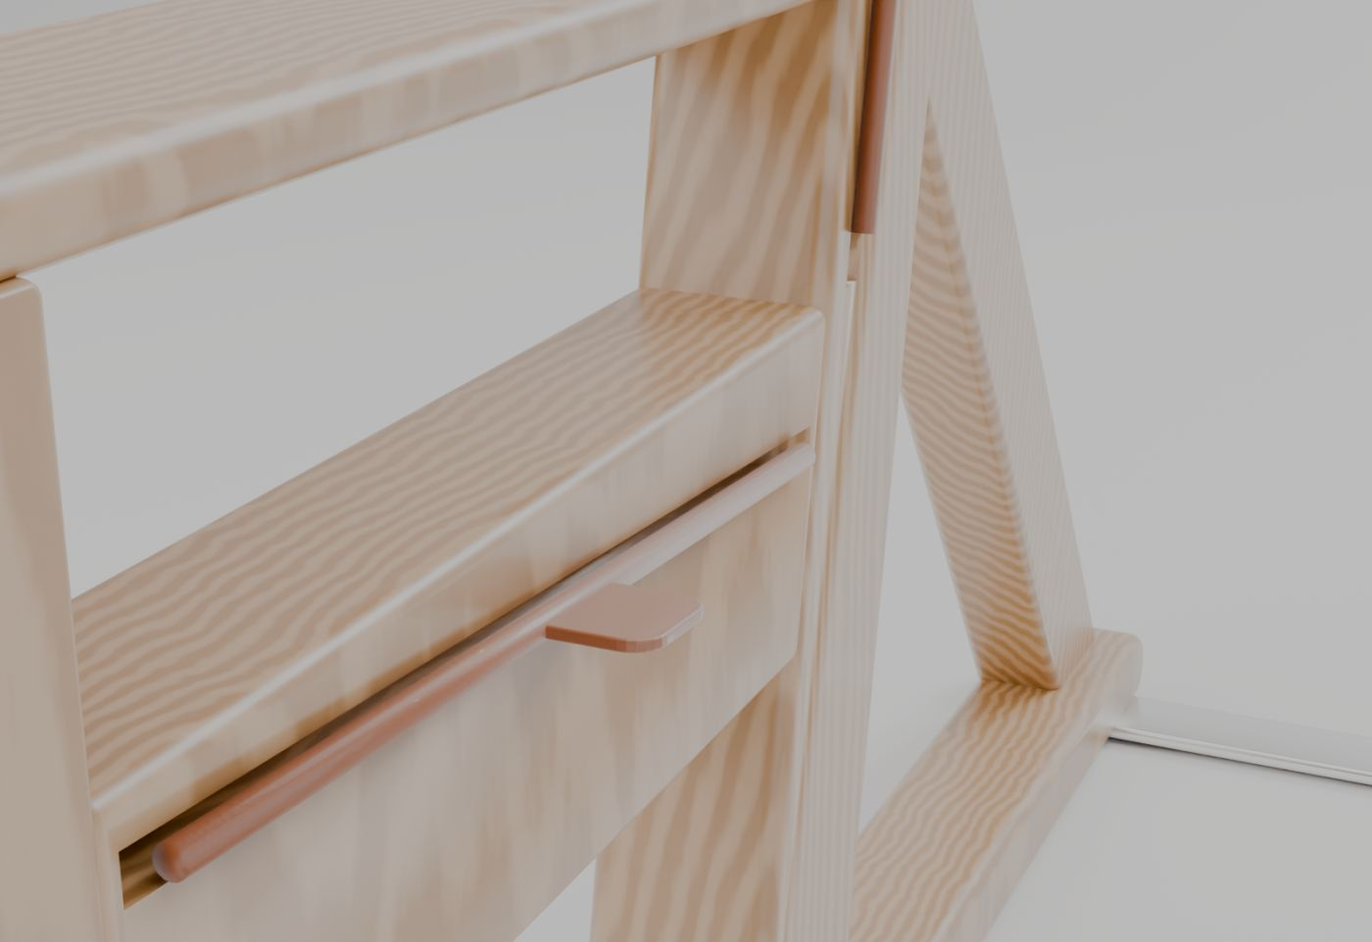
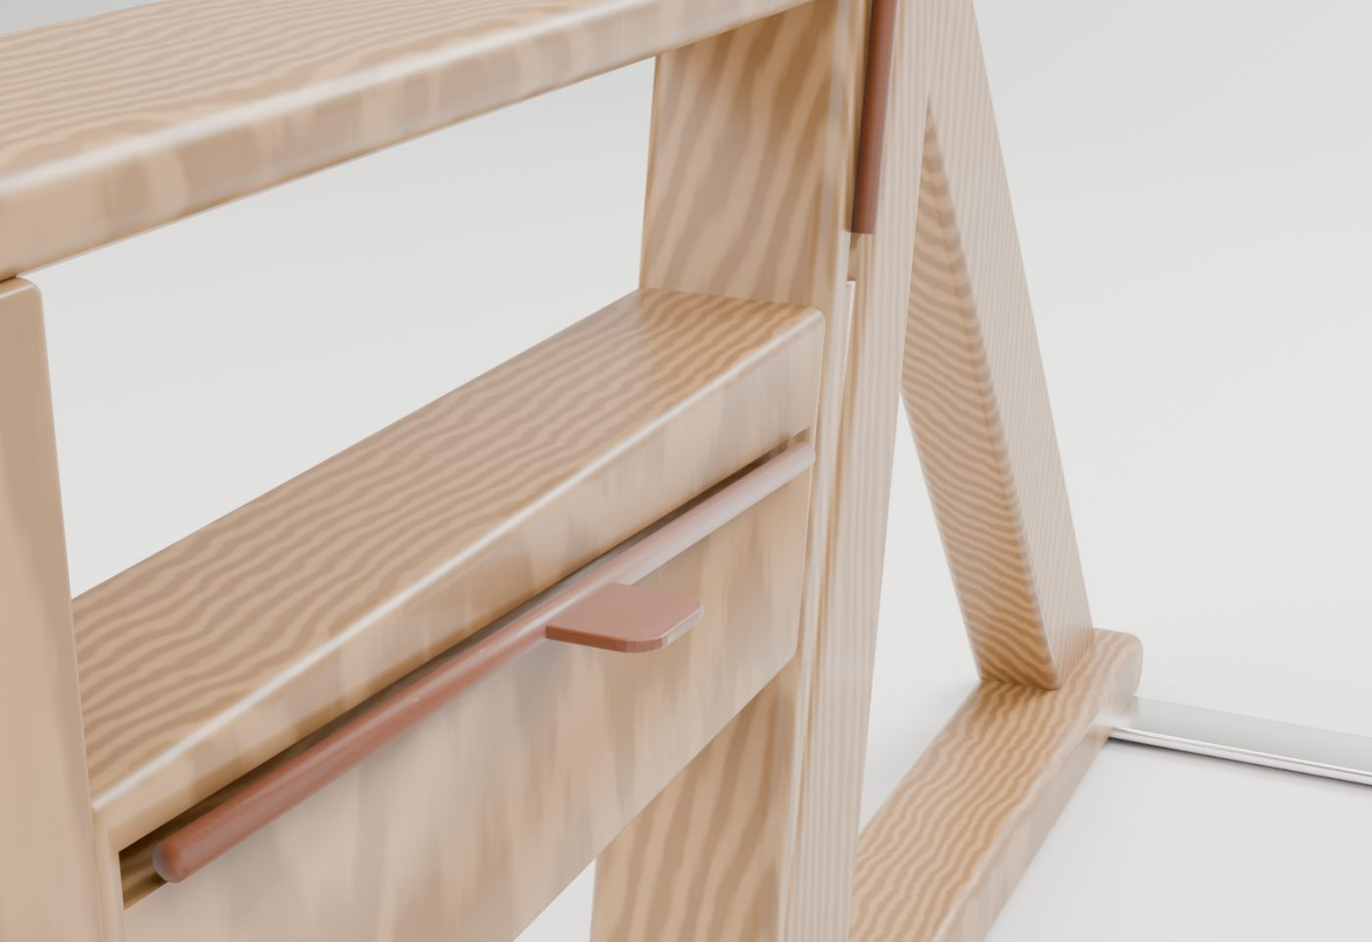
Fix washed-out web images (no second tone-mapping) and duplicated footer

diff --git a/index.html b/index.html
@@ -92,23 +92,15 @@ footer{padding-block:28px;border-top:1px solid var(--rule);color:var(--muted);fo
   <div class="duo">
     <figure><span class="tag seat">מצב ישיבה</span><img src="img/hero_seat.jpg" alt="ROWEN במצב ישיבה: מסגרת אלון, מושב וגב מעור קוניאק, מוט נירוסטה כמשענת עליונה"></figure>
     <figure><span class="tag row">מצב מתח</span><img src="img/hero_row.jpg" alt="ROWEN פתוח: מסגרת פתוחה, מוט בגובה 950 מ&quot;מ ולוח עקבים שנשלף קדימה"></figure>
-  <footer>ROWEN · עיצוב, הנדסה ורינדור: מודל פרמטרי בבלנדר 5.1. דגם ההדפסה בקנה מידה 1:5 מיועד לתצוגה בלבד.</footer>
-</div>
+  </div>
   <div class="specs">
-    <div><b>950</b><span>גובה המוט, מ"מ</span><footer>ROWEN · עיצוב, הנדסה ורינדור: מודל פרמטרי בבלנדר 5.1. דגם ההדפסה בקנה מידה 1:5 מיועד לתצוגה בלבד.</footer>
-</div>
-    <div><b>740</b><span>מעבר חופשי בין הדפנות</span><footer>ROWEN · עיצוב, הנדסה ורינדור: מודל פרמטרי בבלנדר 5.1. דגם ההדפסה בקנה מידה 1:5 מיועד לתצוגה בלבד.</footer>
-</div>
-    <div><b>446</b><span>גובה מושב (קצה)</span><footer>ROWEN · עיצוב, הנדסה ורינדור: מודל פרמטרי בבלנדר 5.1. דגם ההדפסה בקנה מידה 1:5 מיועד לתצוגה בלבד.</footer>
-</div>
-    <div><b>1000×1285</b><span>רוחב × עומק</span><footer>ROWEN · עיצוב, הנדסה ורינדור: מודל פרמטרי בבלנדר 5.1. דגם ההדפסה בקנה מידה 1:5 מיועד לתצוגה בלבד.</footer>
-</div>
-    <div><b>≈60</b><span>משקל, ק"ג (אלון מלא)</span><footer>ROWEN · עיצוב, הנדסה ורינדור: מודל פרמטרי בבלנדר 5.1. דגם ההדפסה בקנה מידה 1:5 מיועד לתצוגה בלבד.</footer>
-</div>
-    <div><b>≥4.5</b><span>מקדם ביטחון להתהפכות</span><footer>ROWEN · עיצוב, הנדסה ורינדור: מודל פרמטרי בבלנדר 5.1. דגם ההדפסה בקנה מידה 1:5 מיועד לתצוגה בלבד.</footer>
-</div>
-  <footer>ROWEN · עיצוב, הנדסה ורינדור: מודל פרמטרי בבלנדר 5.1. דגם ההדפסה בקנה מידה 1:5 מיועד לתצוגה בלבד.</footer>
-</div>
+    <div><b>950</b><span>גובה המוט, מ"מ</span></div>
+    <div><b>740</b><span>מעבר חופשי בין הדפנות</span></div>
+    <div><b>446</b><span>גובה מושב (קצה)</span></div>
+    <div><b>1000×1285</b><span>רוחב × עומק</span></div>
+    <div><b>≈60</b><span>משקל, ק"ג (אלון מלא)</span></div>
+    <div><b>≥4.5</b><span>מקדם ביטחון להתהפכות</span></div>
+  </div>
 </header>
 
 <section>
@@ -117,14 +109,10 @@ footer{padding-block:28px;border-top:1px solid var(--rule);color:var(--muted);fo
   <figure><video src="media/ROWEN_transform.mp4" controls muted loop playsinline preload="metadata" poster="img/hero_seat.jpg"></video>
     <figcaption>הגב נגלל לעמוד השמאלי, אחריו המושב למסילה, לוח העקבים נשלף קדימה, ובסוף שתי חזרות.</figcaption></figure>
   <div class="steps">
-    <div class="step"><h3>משחררים את הגב</h3><p>לוחצים על ידית הרצ'ט בעמוד השמאלי ומחליקים את מוט ה-keder החוצה מהערוץ הימני. הגליל אוסף את העור פנימה, כמו כיסוי תא מטען.</p><footer>ROWEN · עיצוב, הנדסה ורינדור: מודל פרמטרי בבלנדר 5.1. דגם ההדפסה בקנה מידה 1:5 מיועד לתצוגה בלבד.</footer>
-</div>
-    <div class="step"><h3>משחררים את המושב</h3><p>אותה פעולה במסילה השמאלית. בשני המקרים נשארת בחוץ רק לשונית עור קטנה, שבעזרתה מושכים את העור חזרה.</p><footer>ROWEN · עיצוב, הנדסה ורינדור: מודל פרמטרי בבלנדר 5.1. דגם ההדפסה בקנה מידה 1:5 מיועד לתצוגה בלבד.</footer>
-</div>
-    <div class="step"><h3>שולפים את לוח העקבים</h3><p>מושכים את לולאת העור קדימה עד העצירה. הלוח עובר מתחת לקורה הקדמית. סגירה בסדר הפוך: מותחים את העור, משחילים לערוץ ונועלים ברצ'ט.</p><footer>ROWEN · עיצוב, הנדסה ורינדור: מודל פרמטרי בבלנדר 5.1. דגם ההדפסה בקנה מידה 1:5 מיועד לתצוגה בלבד.</footer>
-</div>
-  <footer>ROWEN · עיצוב, הנדסה ורינדור: מודל פרמטרי בבלנדר 5.1. דגם ההדפסה בקנה מידה 1:5 מיועד לתצוגה בלבד.</footer>
-</div>
+    <div class="step"><h3>משחררים את הגב</h3><p>לוחצים על ידית הרצ'ט בעמוד השמאלי ומחליקים את מוט ה-keder החוצה מהערוץ הימני. הגליל אוסף את העור פנימה, כמו כיסוי תא מטען.</p></div>
+    <div class="step"><h3>משחררים את המושב</h3><p>אותה פעולה במסילה השמאלית. בשני המקרים נשארת בחוץ רק לשונית עור קטנה, שבעזרתה מושכים את העור חזרה.</p></div>
+    <div class="step"><h3>שולפים את לוח העקבים</h3><p>מושכים את לולאת העור קדימה עד העצירה. הלוח עובר מתחת לקורה הקדמית. סגירה בסדר הפוך: מותחים את העור, משחילים לערוץ ונועלים ברצ'ט.</p></div>
+  </div>
 </section>
 
 <section>
@@ -141,15 +129,12 @@ footer{padding-block:28px;border-top:1px solid var(--rule);color:var(--muted);fo
         <li><b>קל יותר:</b> לכופף ברכיים ולקרב את הרגליים. <b>קשה יותר:</b> רגליים ישרות ורחוקות, ירידה איטית בשלוש שניות.</li>
       </ul>
       <p class="note">לא מושכים במוט קדימה כדי לקום מהרצפה. משיכה אופקית של כ-<span class="num">320 N</span> מהפכת את הכיסא קדימה כשאין אף אחד על לוח העקבים. לא מתאמנים כשהלוח מקופל ועל רצפה מבריקה או על שטיח רך.</p>
-    <footer>ROWEN · עיצוב, הנדסה ורינדור: מודל פרמטרי בבלנדר 5.1. דגם ההדפסה בקנה מידה 1:5 מיועד לתצוגה בלבד.</footer>
-</div>
-  <footer>ROWEN · עיצוב, הנדסה ורינדור: מודל פרמטרי בבלנדר 5.1. דגם ההדפסה בקנה מידה 1:5 מיועד לתצוגה בלבד.</footer>
-</div>
+    </div>
+  </div>
   <div class="duo">
     <figure><img src="img/seat_user.jpg" alt="משתמש יושב בכורסה"><figcaption>ישיבה: המושב נוטה 30 מ"מ לאחור והגב 11°. המוט עטוף בעור לכל אורכו.</figcaption></figure>
     <figure><img src="img/persp_row_user.jpg" alt="משתמש בראש התנועה, מבט פרספקטיבה"><figcaption>מעבר של 740 מ"מ: גם במרפקים פתוחים לצדדים יש מרווח של כ-32 מ"מ מהעמודים.</figcaption></figure>
-  <footer>ROWEN · עיצוב, הנדסה ורינדור: מודל פרמטרי בבלנדר 5.1. דגם ההדפסה בקנה מידה 1:5 מיועד לתצוגה בלבד.</footer>
-</div>
+  </div>
 </section>
 
 <section>
@@ -162,8 +147,7 @@ footer{padding-block:28px;border-top:1px solid var(--rule);color:var(--muted);fo
       <p>בגרסה הראשונה הבדיקה מצאה שהאמות פוגעות בפינה האחורית-עליונה של העמודים. התיקון: המוט עבר ל"מפרק" מעוגל בחלק האחורי של ראש העמוד.</p>
       <h3>מוט</h3>
       <p>צינור נירוסטה 304 בקוטר <span class="num">32×3</span> על מפתח <span class="num">810</span>. בעומס של 120 ק"ג ×1.5: <span class="num">61 MPa</span> (מקדם ביטחון 3.4 לכניעה), ושקיעה של <span class="num">1.6 מ"מ</span>.</p>
-    <footer>ROWEN · עיצוב, הנדסה ורינדור: מודל פרמטרי בבלנדר 5.1. דגם ההדפסה בקנה מידה 1:5 מיועד לתצוגה בלבד.</footer>
-</div>
+    </div>
     <div style="display:grid;gap:10px;min-width:0">
       <h3>יציבות במצב מתח: המקרה הגרוע</h3>
       <p style="font-size:14px;color:var(--muted)">כוח ניצב לגו, מקדם דינמי ×1.5. מסה ומרכז כובד חושבו מהרשתות: <span class="num">59.2 ק"ג</span>.</p>
@@ -174,33 +158,23 @@ footer{padding-block:28px;border-top:1px solid var(--rule);color:var(--muted);fo
           <tr><td class="n">90 ק"ג</td><td class="n">37°</td><td class="n">675 N</td><td class="n good">4.80</td><td class="n">1.78</td><td class="n">0.36</td></tr>
           <tr><td class="n">120 ק"ג</td><td class="n">28°</td><td class="n">995 N</td><td class="n good">4.89</td><td class="n">1.92</td><td class="n">0.32</td></tr>
           <tr><td class="n">120 ק"ג</td><td class="n">37°</td><td class="n">900 N</td><td class="n good">4.52</td><td class="n mid">1.51</td><td class="n mid">0.42</td></tr>
-        </tbody></table><footer>ROWEN · עיצוב, הנדסה ורינדור: מודל פרמטרי בבלנדר 5.1. דגם ההדפסה בקנה מידה 1:5 מיועד לתצוגה בלבד.</footer>
-</div>
+        </tbody></table></div>
       <p style="font-size:14px;color:var(--muted)">עם לוח העקבים, הכוח האופקי בין העקב למוט נסגר בתוך הכיסא, ולכן לא נדרש חיכוך עם הרצפה כלל.</p>
-    <footer>ROWEN · עיצוב, הנדסה ורינדור: מודל פרמטרי בבלנדר 5.1. דגם ההדפסה בקנה מידה 1:5 מיועד לתצוגה בלבד.</footer>
-</div>
-  <footer>ROWEN · עיצוב, הנדסה ורינדור: מודל פרמטרי בבלנדר 5.1. דגם ההדפסה בקנה מידה 1:5 מיועד לתצוגה בלבד.</footer>
-</div>
+    </div>
+  </div>
 </section>
 
 <section>
   <span class="eyebrow">סקירה עצמאית · סוכן הנדסי נפרד</span>
   <h2>מה הסוקר מצא ומה שונה</h2>
   <div class="fix">
-    <div>משיכה קדימה של כ-306 N, או שימוש הפוך, מהפכת את הכיסא. בלי הלוח נדרש חיכוך של 0.45.</div><div><b>לוח עקבים נשלף.</b> כוחות העקב והמוט נסגרים בתוך המסגרת, ומקדם הביטחון עולה מ-1.38 ל-4.5.<footer>ROWEN · עיצוב, הנדסה ורינדור: מודל פרמטרי בבלנדר 5.1. דגם ההדפסה בקנה מידה 1:5 מיועד לתצוגה בלבד.</footer>
-</div>
-    <div>המוט יושב בחורים פשוטים: לא עובד בלחיצה, והקורה הקדמית 60×10 מגיעה לכניעה.</div><div>צווארונים על המוט, פקקים מוברגים, וקורה קדמית RHS 50×25×3 על הצד.<footer>ROWEN · עיצוב, הנדסה ורינדור: מודל פרמטרי בבלנדר 5.1. דגם ההדפסה בקנה מידה 1:5 מיועד לתצוגה בלבד.</footer>
-</div>
-    <div>אין מקום לשגמים במסילה השמאלית בגלל חלל הגליל.</div><div>המסילה הוגבהה ל-150 מ"מ. השגמים בחלק התחתון, והגליל בחלק העליון.<footer>ROWEN · עיצוב, הנדסה ורינדור: מודל פרמטרי בבלנדר 5.1. דגם ההדפסה בקנה מידה 1:5 מיועד לתצוגה בלבד.</footer>
-</div>
-    <div>מרווח מרפק של 16 מ"מ בלבד.</div><div>המעבר הורחב ל-740 מ"מ, ועכשיו המרווח כ-32 מ"מ.<footer>ROWEN · עיצוב, הנדסה ורינדור: מודל פרמטרי בבלנדר 5.1. דגם ההדפסה בקנה מידה 1:5 מיועד לתצוגה בלבד.</footer>
-</div>
-    <div>קורת עץ אחורית מתחת לצוואר, במקרה של נפילה.</div><div>במקומה פס נירוסטה שטוח בגובה הרצפה.<footer>ROWEN · עיצוב, הנדסה ורינדור: מודל פרמטרי בבלנדר 5.1. דגם ההדפסה בקנה מידה 1:5 מיועד לתצוגה בלבד.</footer>
-</div>
-    <div>ישיבה זקופה מדי (98°), מושב רדוד, ומוט קשיח מאחורי השכמות.</div><div>גב מוטה 11°, מושב מוטה 30 מ"מ לאחור, משענות יד נמוכות ב-25 מ"מ, ושרוול עור לכל אורך המוט.<footer>ROWEN · עיצוב, הנדסה ורינדור: מודל פרמטרי בבלנדר 5.1. דגם ההדפסה בקנה מידה 1:5 מיועד לתצוגה בלבד.</footer>
-</div>
-  <footer>ROWEN · עיצוב, הנדסה ורינדור: מודל פרמטרי בבלנדר 5.1. דגם ההדפסה בקנה מידה 1:5 מיועד לתצוגה בלבד.</footer>
-</div>
+    <div>משיכה קדימה של כ-306 N, או שימוש הפוך, מהפכת את הכיסא. בלי הלוח נדרש חיכוך של 0.45.</div><div><b>לוח עקבים נשלף.</b> כוחות העקב והמוט נסגרים בתוך המסגרת, ומקדם הביטחון עולה מ-1.38 ל-4.5.</div>
+    <div>המוט יושב בחורים פשוטים: לא עובד בלחיצה, והקורה הקדמית 60×10 מגיעה לכניעה.</div><div>צווארונים על המוט, פקקים מוברגים, וקורה קדמית RHS 50×25×3 על הצד.</div>
+    <div>אין מקום לשגמים במסילה השמאלית בגלל חלל הגליל.</div><div>המסילה הוגבהה ל-150 מ"מ. השגמים בחלק התחתון, והגליל בחלק העליון.</div>
+    <div>מרווח מרפק של 16 מ"מ בלבד.</div><div>המעבר הורחב ל-740 מ"מ, ועכשיו המרווח כ-32 מ"מ.</div>
+    <div>קורת עץ אחורית מתחת לצוואר, במקרה של נפילה.</div><div>במקומה פס נירוסטה שטוח בגובה הרצפה.</div>
+    <div>ישיבה זקופה מדי (98°), מושב רדוד, ומוט קשיח מאחורי השכמות.</div><div>גב מוטה 11°, מושב מוטה 30 מ"מ לאחור, משענות יד נמוכות ב-25 מ"מ, ושרוול עור לכל אורך המוט.</div>
+  </div>
 </section>
 
 <section>
@@ -211,8 +185,7 @@ footer{padding-block:28px;border-top:1px solid var(--rule);color:var(--muted);fo
     <figure><img src="img/drawing_row_side.jpg" alt="שרטוט צד במצב מתח עם משתמש בראש ובתחתית התנועה"></figure>
     <figure><img src="img/drawing_seat_front.jpg" alt="שרטוט חזית במצב ישיבה"></figure>
     <figure><img src="img/drawing_row_front.jpg" alt="שרטוט חזית במצב מתח"></figure>
-  <footer>ROWEN · עיצוב, הנדסה ורינדור: מודל פרמטרי בבלנדר 5.1. דגם ההדפסה בקנה מידה 1:5 מיועד לתצוגה בלבד.</footer>
-</div>
+  </div>
 </section>
 
 <section>
@@ -233,8 +206,7 @@ footer{padding-block:28px;border-top:1px solid var(--rule);color:var(--muted);fo
       <tr><td class="n">08</td><td><code>08_bar_sleeve.stl</code></td><td class="n">1</td><td>עומד, עם brim</td><td>קוניאק</td><td class="n">Ø8.4×147</td></tr>
       <tr><td class="n">09</td><td><code>09_bar_cap_x2.stl</code></td><td class="n">2</td><td>כיפה למעלה</td><td>כסף</td><td class="n">Ø8.4×2.4</td></tr>
       <tr><td class="n">10</td><td><code>10_bar_rod.stl</code></td><td class="n">1</td><td>הצד השטוח למטה, 100% מילוי</td><td>כסף</td><td class="n">Ø6×187</td></tr>
-    </tbody></table><footer>ROWEN · עיצוב, הנדסה ורינדור: מודל פרמטרי בבלנדר 5.1. דגם ההדפסה בקנה מידה 1:5 מיועד לתצוגה בלבד.</footer>
-</div>
+    </tbody></table></div>
   <div class="split">
     <div class="read" style="display:grid;gap:10px">
       <h3>הגדרות</h3>
@@ -244,8 +216,7 @@ footer{padding-block:28px;border-top:1px solid var(--rule);color:var(--muted);fo
         <li>מרווחים מובנים: <span class="num">0.25</span> מ"מ לכל צד בהחלקה, <span class="num">0.1</span> מ"מ בלחיצה.</li>
         <li>בדיקת ההתאמה האוטומטית (<code>print_report.json</code>): 0 חיתוכים בכל זוגות החלקים ולאורך מסלולי ההחלקה. כל החלקים סגורים (manifold).</li>
       </ul>
-    <footer>ROWEN · עיצוב, הנדסה ורינדור: מודל פרמטרי בבלנדר 5.1. דגם ההדפסה בקנה מידה 1:5 מיועד לתצוגה בלבד.</footer>
-</div>
+    </div>
     <div class="read" style="display:grid;gap:10px">
       <h3>הרכבה</h3>
       <ol class="clean">
@@ -256,10 +227,8 @@ footer{padding-block:28px;border-top:1px solid var(--rule);color:var(--muted);fo
         <li>מחליקים את הגב <b>מלמעלה</b> בחריצים שבעמודים. הוא עובר לפני המוט.</li>
       </ol>
       <p>פתיחה לעמדת מתח: שולפים את הגב למעלה, את המושב קדימה, ומושכים את לוח העקבים קדימה מתחת לקורה.</p>
-    <footer>ROWEN · עיצוב, הנדסה ורינדור: מודל פרמטרי בבלנדר 5.1. דגם ההדפסה בקנה מידה 1:5 מיועד לתצוגה בלבד.</footer>
-</div>
-  <footer>ROWEN · עיצוב, הנדסה ורינדור: מודל פרמטרי בבלנדר 5.1. דגם ההדפסה בקנה מידה 1:5 מיועד לתצוגה בלבד.</footer>
-</div>
+    </div>
+  </div>
 </section>
 
 <section id="download">
@@ -287,8 +256,7 @@ footer{padding-block:28px;border-top:1px solid var(--rule);color:var(--muted);fo
     <figure><img src="img/rear_row.jpg" alt="מבט אחורי במצב מתח"><figcaption>מאחור: תומכות אחוריות וגלגלי הובלה.</figcaption></figure>
     <figure><img src="img/detail_slot.jpg" alt="פרט: חריץ הגליל במסילה השמאלית עם לשונית העור"><figcaption>החריץ שאליו נגלל המושב, עם לשונית המשיכה.</figcaption></figure>
     <figure><img src="img/detail_bar.jpg" alt="פרט: מוט עטוף עור בתוך ראש העמוד"><figcaption>המפרק בראש העמוד: המוט עטוף בעור ותפור.</figcaption></figure>
-  <footer>ROWEN · עיצוב, הנדסה ורינדור: מודל פרמטרי בבלנדר 5.1. דגם ההדפסה בקנה מידה 1:5 מיועד לתצוגה בלבד.</footer>
-</div>
+  </div>
 </section>
 
 <footer>ROWEN · עיצוב, הנדסה ורינדור: מודל פרמטרי בבלנדר 5.1. דגם ההדפסה בקנה מידה 1:5 מיועד לתצוגה בלבד.</footer>
